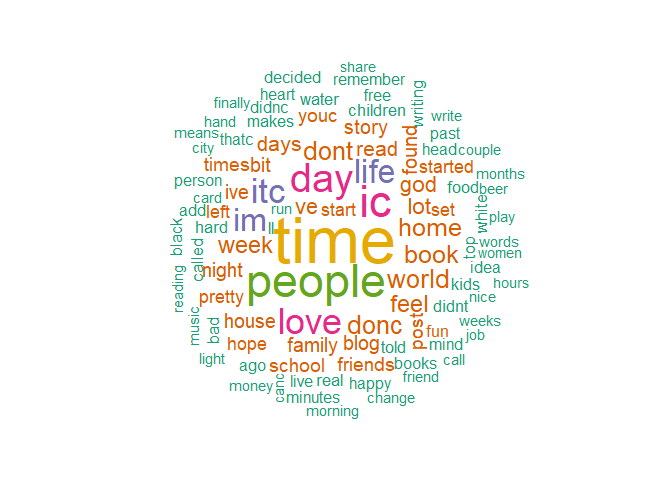
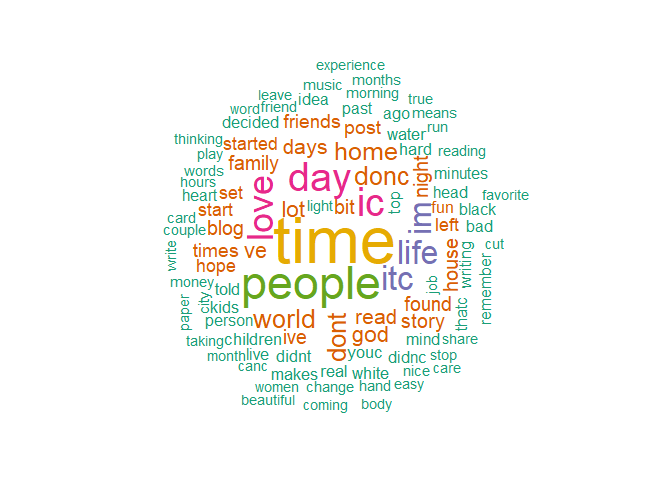
Experiment with bigrams

Changed region(s): [[0.25, 0.125, 0.7812, 0.875]]

diff --git a/02_Task_Script.md b/02_Task_Script.md
@@ -3,6 +3,16 @@ Task 2: Exploratory Data Analysis
 Mark Blackmore
 2017-10-18
 
+1. Introduction
+---------------
+
+This script uses the tidy data principles applied to text mining, as outlined in [Text Mining with R: A Tidy Approach](http://tidytextmining.com/).
+
+Using this approach, we are able to use the **entire data set** as opposed to data sampling approach required by the memory constraints of the `tm` package.
+
+1. Data loading and cleaning
+----------------------------
+
 English Repository Files
 
 ``` r
@@ -25,9 +35,10 @@ news    <- readLines(news_file,    skipNul = TRUE)
 twitter <- readLines(twitter_file, skipNul = TRUE) 
 ```
 
-Create filters: profanity, non-alphanumeric characters, url's, repeated letters
+Create filters: stopwords, profanity, non-alphanumeric characters, url's, repeated letters
 
 ``` r
+data("stop_words")
 swear_words <- read.csv("./data/final/en_US/en_US.swearWords.csv", header = FALSE)
 ```
 
@@ -45,8 +56,12 @@ swear_words <- gather(swear_words) %>% transmute(word = value)
 ``` r
 replace_reg <- "[^[:alpha:][:space:]]*"
 replace_url <- "http[^[:space:]]*"
-replace_aaa <- "\\b(?=\\w*(\\w)\\1)\\w+\\b"
+replace_aaa <- "\\b(?=\\w*(\\w)\\1)\\w+\\b"  
+```
 
+Create clean & tidy dataframes for each source and a clean & tidy repository
+
+``` r
 tidy_blogs <- data_frame(text = blogs) %>%
   mutate(text = str_replace_all(text, replace_reg, "")) %>%
   mutate(text = str_replace_all(text, replace_url, "")) %>%
@@ -89,12 +104,38 @@ tidy_twitter <- data_frame(text = twitter) %>%
     ## Joining, by = "word"
 
 ``` r
+# Tidy repository with source, save to file  
 tidy_repo <- bind_rows(mutate(tidy_blogs, source = "blogs"),
                        mutate(tidy_news,  source = "news"),
                        mutate(tidy_twitter, source = "twitter")) 
+tidy_repo
+```
 
+    ## # A tibble: 22,754,109 x 2
+    ##         word source
+    ##        <chr>  <chr>
+    ##  1       oil  blogs
+    ##  2    fields  blogs
+    ##  3 platforms  blogs
+    ##  4     named  blogs
+    ##  5     pagan  blogs
+    ##  6     godsc  blogs
+    ##  7      love  blogs
+    ##  8     brown  blogs
+    ##  9      chad  blogs
+    ## 10   awesome  blogs
+    ## # ... with 22,754,099 more rows
+
+``` r
+saveRDS(tidy_repo, "./data/final/en_US/tidy_repo.rds")
+```
+
+2. Most frequent words and word distributions
+---------------------------------------------
+
+``` r
 freq <- tidy_repo %>%
-  mutate(word = str_extract(word, "[a-z']+")) %>%
+  #mutate(word = str_extract(word, "[a-z']+")) %>%
   count(source, word) %>%
   group_by(source) %>%
   mutate(proportion = n / sum(n)) %>%
@@ -103,6 +144,7 @@ freq <- tidy_repo %>%
   gather(source, proportion, `blogs`:`twitter`) %>%
   arrange(desc(proportion), desc(n))
 
+# Most frequent words
 kable(head(freq, 10))
 ```
 
@@ -120,124 +162,34 @@ kable(head(freq, 10))
 | people |   58839| blogs   |   0.0049893|
 
 ``` r
+# Least frequent words
 freq_low <- freq %>% 
   arrange(proportion, n)
-
-kable(head(freq_low, 100)) 
+kable(head(freq_low, 10)) 
 ```
 
-| word                  |    n| source |  proportion|
-|:----------------------|----:|:-------|-----------:|
-| aaaaaaaaaaaaaa        |    1| blogs  |       1e-07|
-| aabb                  |    1| blogs  |       1e-07|
-| aaberg                |    1| blogs  |       1e-07|
-| aabergc               |    1| blogs  |       1e-07|
-| aac                   |    1| blogs  |       1e-07|
-| aack                  |    1| blogs  |       1e-07|
-| aadvanced             |    1| blogs  |       1e-07|
-| aafaton               |    1| blogs  |       1e-07|
-| aafes                 |    1| blogs  |       1e-07|
-| aag                   |    1| blogs  |       1e-07|
-| aahforget             |    1| blogs  |       1e-07|
-| aahing                |    1| blogs  |       1e-07|
-| aahs                  |    1| blogs  |       1e-07|
-| aair                  |    1| blogs  |       1e-07|
-| aaircare              |    1| blogs  |       1e-07|
-| aajac                 |    1| blogs  |       1e-07|
-| aakhri                |    1| blogs  |       1e-07|
-| aakhu                 |    1| blogs  |       1e-07|
-| aal                   |    1| blogs  |       1e-07|
-| aalab                 |    1| blogs  |       1e-07|
-| aalah                 |    1| blogs  |       1e-07|
-| aalams                |    1| blogs  |       1e-07|
-| aalaya                |    1| blogs  |       1e-07|
-| aalesund              |    1| blogs  |       1e-07|
-| aali                  |    1| blogs  |       1e-07|
-| aalst                 |    1| blogs  |       1e-07|
-| aamodt                |    1| blogs  |       1e-07|
-| aamoth                |    1| blogs  |       1e-07|
-| aan                   |    1| blogs  |       1e-07|
-| aanchal               |    1| blogs  |       1e-07|
-| aangc                 |    1| blogs  |       1e-07|
-| aankh                 |    1| blogs  |       1e-07|
-| aap                   |    1| blogs  |       1e-07|
-| aapke                 |    1| blogs  |       1e-07|
-| aarakshan             |    1| blogs  |       1e-07|
-| aarc                  |    1| blogs  |       1e-07|
-| aardema               |    1| blogs  |       1e-07|
-| aare                  |    1| blogs  |       1e-07|
-| aarhusians            |    1| blogs  |       1e-07|
-| aarkstorecom          |    1| blogs  |       1e-07|
-| aaronkaties           |    1| blogs  |       1e-07|
-| aaronovitchs          |    1| blogs  |       1e-07|
-| aaronson              |    1| blogs  |       1e-07|
-| aarsman               |    1| blogs  |       1e-07|
-| aarthi                |    1| blogs  |       1e-07|
-| aartic                |    1| blogs  |       1e-07|
-| aartis                |    1| blogs  |       1e-07|
-| aaru                  |    1| blogs  |       1e-07|
-| aase                  |    1| blogs  |       1e-07|
-| aashikac              |    1| blogs  |       1e-07|
-| aashimac              |    1| blogs  |       1e-07|
-| aashish               |    1| blogs  |       1e-07|
-| aasia                 |    1| blogs  |       1e-07|
-| aastac                |    1| blogs  |       1e-07|
-| aatask                |    1| blogs  |       1e-07|
-| aati                  |    1| blogs  |       1e-07|
-| aaton                 |    1| blogs  |       1e-07|
-| aaunty                |    1| blogs  |       1e-07|
-| aayan                 |    1| blogs  |       1e-07|
-| aayeaye               |    1| blogs  |       1e-07|
-| aayi                  |    1| blogs  |       1e-07|
-| abaaabab              |    1| blogs  |       1e-07|
-| ababased              |    1| blogs  |       1e-07|
-| ababou                |    1| blogs  |       1e-07|
-| abac                  |    1| blogs  |       1e-07|
-| abaca                 |    1| blogs  |       1e-07|
-| abackturned           |    1| blogs  |       1e-07|
-| abacusc               |    1| blogs  |       1e-07|
-| abadie                |    1| blogs  |       1e-07|
-| abafazi               |    1| blogs  |       1e-07|
-| abagnano              |    1| blogs  |       1e-07|
-| abahlali              |    1| blogs  |       1e-07|
-| abair                 |    1| blogs  |       1e-07|
-| abajo                 |    1| blogs  |       1e-07|
-| abakanowicz           |    1| blogs  |       1e-07|
-| abakhan               |    1| blogs  |       1e-07|
-| abalc                 |    1| blogs  |       1e-07|
-| abalones              |    1| blogs  |       1e-07|
-| abanc                 |    1| blogs  |       1e-07|
-| abancay               |    1| blogs  |       1e-07|
-| abandance             |    1| blogs  |       1e-07|
-| abandonados           |    1| blogs  |       1e-07|
-| abandonar             |    1| blogs  |       1e-07|
-| abandonded            |    1| blogs  |       1e-07|
-| abandonedeverything   |    1| blogs  |       1e-07|
-| abandonedforthemoment |    1| blogs  |       1e-07|
-| abandoningc           |    1| blogs  |       1e-07|
-| abandonmentc          |    1| blogs  |       1e-07|
-| abandonments          |    1| blogs  |       1e-07|
-| abangida              |    1| blogs  |       1e-07|
-| abaou                 |    1| blogs  |       1e-07|
-| abaove                |    1| blogs  |       1e-07|
-| abarouting            |    1| blogs  |       1e-07|
-| abart                 |    1| blogs  |       1e-07|
-| abarth                |    1| blogs  |       1e-07|
-| abarthc               |    1| blogs  |       1e-07|
-| abasa                 |    1| blogs  |       1e-07|
-| abashedc              |    1| blogs  |       1e-07|
-| abashidze             |    1| blogs  |       1e-07|
-| abasiyanik            |    1| blogs  |       1e-07|
+| word           |    n| source |  proportion|
+|:---------------|----:|:-------|-----------:|
+| aaaaaaaaaaaaaa |    1| blogs  |       1e-07|
+| aabb           |    1| blogs  |       1e-07|
+| aaberg         |    1| blogs  |       1e-07|
+| aabergc        |    1| blogs  |       1e-07|
+| aac            |    1| blogs  |       1e-07|
+| aack           |    1| blogs  |       1e-07|
+| aadvanced      |    1| blogs  |       1e-07|
+| aafaton        |    1| blogs  |       1e-07|
+| aafes          |    1| blogs  |       1e-07|
+| aag            |    1| blogs  |       1e-07|
 
 ``` r
-# Word cloud
+# Word clouds
 tidy_blogs %>%
   count(word) %>%
   with(wordcloud(word, n, max.words = 100, 
                  colors = brewer.pal(6, 'Dark2'), random.order = FALSE))
 ```
 
-![](02_Task_Script_files/figure-markdown_github-ascii_identifiers/chunk%20message-1.png)
+![](02_Task_Script_files/figure-markdown_github-ascii_identifiers/unnamed-chunk-4-1.png)
 
 ``` r
 tidy_blogs %>%
@@ -246,7 +198,47 @@ tidy_blogs %>%
                  colors = brewer.pal(6, 'Dark2'), random.order = FALSE)) 
 ```
 
-![](02_Task_Script_files/figure-markdown_github-ascii_identifiers/chunk%20message-2.png)
+![](02_Task_Script_files/figure-markdown_github-ascii_identifiers/unnamed-chunk-4-2.png)
+
+``` r
+# Word distribution
+tidy_repo %>%
+  count(word, sort = TRUE) %>%
+  filter(n > 40000) %>%
+  mutate(word = reorder(word, n)) %>%
+  ggplot(aes(word, n)) +
+  geom_col() +
+  xlab(NULL) +
+  coord_flip()
+```
+
+![](02_Task_Script_files/figure-markdown_github-ascii_identifiers/unnamed-chunk-4-3.png)
+
+``` r
+freq %>%
+  group_by(source) %>%
+  filter(proportion > 0.001) %>%
+  mutate(word = reorder(word, proportion)) %>%
+  ggplot(aes(word, proportion)) +
+  geom_col() + 
+  xlab(NULL) + 
+  coord_flip() +
+  facet_wrap(~source)
+```
+
+    ## Warning in mutate_impl(.data, dots): Unequal factor levels: coercing to
+    ## character
+
+    ## Warning in mutate_impl(.data, dots): binding character and factor vector,
+    ## coercing into character vector
+
+    ## Warning in mutate_impl(.data, dots): binding character and factor vector,
+    ## coercing into character vector
+
+    ## Warning in mutate_impl(.data, dots): binding character and factor vector,
+    ## coercing into character vector
+
+![](02_Task_Script_files/figure-markdown_github-ascii_identifiers/unnamed-chunk-4-4.png)
 
 ------------------------------------------------------------------------
 
@@ -287,13 +279,14 @@ sessionInfo()
     ## [13] modelr_0.1.1      readxl_1.0.0      bindr_0.1        
     ## [16] plyr_1.8.4        munsell_0.4.3     gtable_0.2.0     
     ## [19] cellranger_1.1.0  rvest_0.3.2       psych_1.7.8      
-    ## [22] evaluate_0.10.1   forcats_0.2.0     parallel_3.4.2   
-    ## [25] highr_0.6         broom_0.4.2       tokenizers_0.1.4 
-    ## [28] Rcpp_0.12.13      backports_1.1.1   scales_0.5.0     
-    ## [31] jsonlite_1.5      mnormt_1.5-5      hms_0.3          
-    ## [34] digest_0.6.12     stringi_1.1.5     grid_3.4.2       
-    ## [37] rprojroot_1.2     tools_3.4.2       magrittr_1.5     
-    ## [40] lazyeval_0.2.0    janeaustenr_0.1.5 pkgconfig_2.0.1  
-    ## [43] Matrix_1.2-11     xml2_1.1.1        lubridate_1.6.0  
-    ## [46] assertthat_0.2.0  rmarkdown_1.6     httr_1.3.1       
-    ## [49] R6_2.2.2          nlme_3.1-131      compiler_3.4.2
+    ## [22] evaluate_0.10.1   labeling_0.3      forcats_0.2.0    
+    ## [25] parallel_3.4.2    highr_0.6         broom_0.4.2      
+    ## [28] tokenizers_0.1.4  Rcpp_0.12.13      backports_1.1.1  
+    ## [31] scales_0.5.0      jsonlite_1.5      mnormt_1.5-5     
+    ## [34] hms_0.3           digest_0.6.12     stringi_1.1.5    
+    ## [37] grid_3.4.2        rprojroot_1.2     tools_3.4.2      
+    ## [40] magrittr_1.5      lazyeval_0.2.0    janeaustenr_0.1.5
+    ## [43] pkgconfig_2.0.1   Matrix_1.2-11     xml2_1.1.1       
+    ## [46] lubridate_1.6.0   assertthat_0.2.0  rmarkdown_1.6    
+    ## [49] httr_1.3.1        R6_2.2.2          nlme_3.1-131     
+    ## [52] compiler_3.4.2
